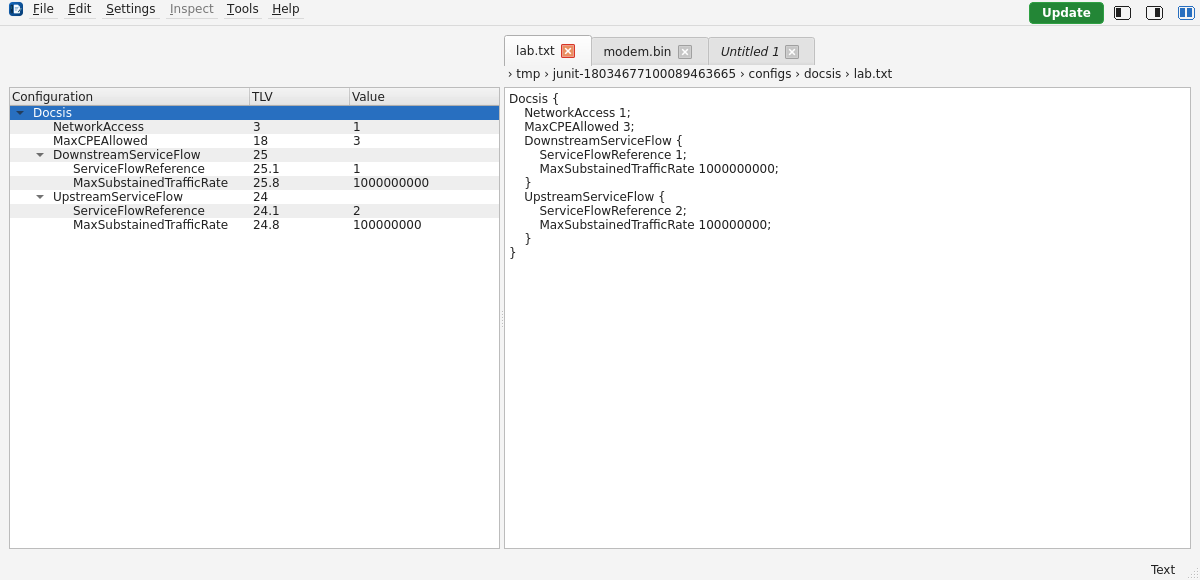
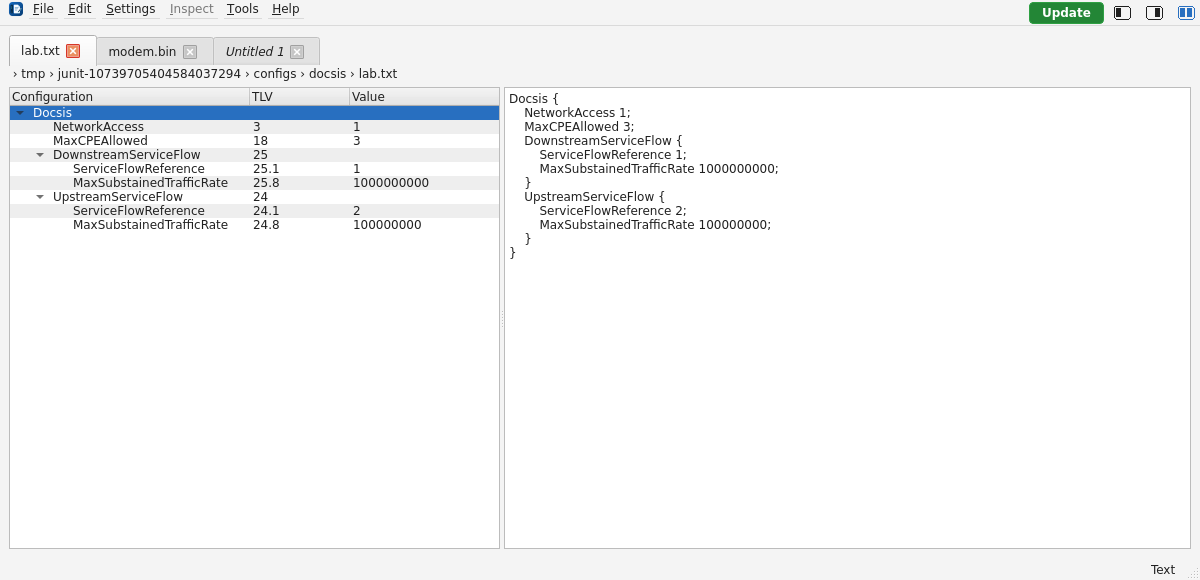
Feature: Add multi-file workspace tabs - Left-align tabs and breadcrumbs above both panels - Keep document edits and save state independent - Sync active tabs with TLV tree and file type - Add tab menu and safe multi-document closing - Update architecture, guides and screenshots - Tests: Pass 151 te

Changed region(s): [[0.0, 0.0621, 0.3392, 0.1552], [0.4317, 0.0621, 0.74, 0.1552]]

diff --git a/src/main/java/io/oscarui/ui/MainWindow.java b/src/main/java/io/oscarui/ui/MainWindow.java
@@ -100,8 +100,6 @@ public final class MainWindow extends QMainWindow {
 
     private final WorkspaceSessions workspace = new WorkspaceSessions();
     private final DocumentTabs documentTabs = new DocumentTabs(this::activateSession, this::closeSession);
-    private final QWidget tabSpacer = new QWidget();
-    private QSplitter workspaceSplitter;
     private boolean closeApproved;
     private Document document;
 
@@ -163,18 +161,8 @@ public final class MainWindow extends QMainWindow {
         status.setWordWrap(true);
         status.setObjectName("operationStatus");
         status.setVisible(false);
-        var tabRow = new QHBoxLayout();
-        tabRow.setContentsMargins(0, 0, 0, 0);
-        tabRow.setSpacing(0);
-        tabRow.addWidget(tabSpacer);
-        tabRow.addWidget(documentTabs, 1);
-        layout.addLayout(tabRow);
+        layout.addWidget(documentTabs);
         var splitter = new QSplitter(Qt.Orientation.Horizontal);
-        workspaceSplitter = splitter;
-        splitter.installEventFilter(this);
-        configurationTreePane.installEventFilter(this);
-        configurationTextPane.installEventFilter(this);
-        splitter.splitterMoved.connect((position, index) -> alignTabs());
         splitter.addWidget(configurationTreePane);
         splitter.addWidget(configurationTextPane);
         splitter.setStretchFactor(0, 1);
@@ -369,10 +357,6 @@ public final class MainWindow extends QMainWindow {
      * @return true when the Inspect tooltip was handled, otherwise Qt's result
      */
     @Override public boolean eventFilter(QObject watched, QEvent event) {
-        if ((watched == workspaceSplitter || watched == configurationTreePane || watched == configurationTextPane)
-                && (event.type() == QEvent.Type.Resize || event.type() == QEvent.Type.Show || event.type() == QEvent.Type.Hide)) {
-            QTimer.singleShot(0, this::alignTabs);
-        }
         if (watched == menuBar() && event.type() == QEvent.Type.ToolTip
                 && event instanceof QHelpEvent helpEvent && inspectMenu != null
                 && menuBar().actionAt(helpEvent.pos()) == inspectMenu.menuAction()) {
@@ -712,14 +696,6 @@ public final class MainWindow extends QMainWindow {
             }
             dialog.dispose();
         });
-    }
-
-    private void alignTabs() {
-        if (workspaceSplitter != null && !workspaceSplitter.isDisposed()) {
-            int width = !configurationTreePane.isHidden() && !configurationTextPane.isHidden()
-                    ? workspaceSplitter.sizes().getFirst() + workspaceSplitter.handleWidth() : 0;
-            tabSpacer.setFixedWidth(width);
-        }
     }
 
     private boolean activateExisting(Path path) {

diff --git a/docs/development/todo/multi-file-workspace.md b/docs/development/todo/multi-file-workspace.md
@@ -6,7 +6,7 @@ Status: implemented locally; native Windows/macOS confirmation remains with CI.
 
 - New and Open create/select a tab instead of replacing the current document.
   Opening another file does not prompt to discard the current file.
-- Put tabs immediately above the text panel. Keep one shared TLV tree on the left.
+- Put left-aligned tabs immediately above both workspace panels. Keep one shared TLV tree on the left.
 - Right-click anywhere on the tab row (a tab or unused space) opens a context
   menu with **Open File...** and **New File...**. Reuse the File menu actions and
   their existing dialogs; each successful operation creates/selects a tab without
@@ -19,7 +19,7 @@ Status: implemented locally; native Windows/macOS confirmation remains with CI.
   Italic means unsaved: a new draft or modifications since the last successful
   save. Use normal text after successful save; do not italicize merely because
   a tab is inactive. Add an accessible unsaved indication in the tooltip.
-- Match the supplied editor example with two rows above the text preview:
+- Match the supplied editor example with two rows spanning the workspace above both panels:
   filename tabs with close buttons, then a breadcrumb row for the active file.
   Show directory segments followed by the filename, for example
   `configs > docsis > customer.cfg`. There is no project root in this app, so

diff --git a/docs/development/architecture/ui-architecture.md b/docs/development/architecture/ui-architecture.md
@@ -796,8 +796,8 @@ aliases activate their existing tab; duplicate basenames get distinguishing pare
 paths. Save As refuses another open tab's destination. A typed Text/Binary status
 is derived from the session's source metadata and changes only after a successful
 format-changing save. It is never inferred from the displayed text or extension.
-The tab strip aligns with the text panel in split mode and remains available in
-tree-only mode. Empty workspaces clear document state and disable file actions.
+The tabs and breadcrumbs start at the left workspace edge above both panels,
+span the workspace width, and remain available in tree-only mode. Empty workspaces clear document state and disable file actions.
 
 OSCAR work remains serialized. While any operation runs, document mutations and
 closing are disabled, but tab selection remains available. Worker results capture

diff --git a/docs/ui/workspace.md b/docs/ui/workspace.md
@@ -22,7 +22,9 @@ layout uses the theme's highlight color.
 
 ## File tabs and directory breadcrumbs
 
-Each New/Open adds a tab above the text panel. Select a tab to switch the shared
+Tabs and breadcrumbs start at the left workspace edge above both panels.
+
+Each New/Open adds a tab above the workspace panels. Select a tab to switch the shared
 TLV tree, text preview, inspection actions, and bottom-right **Text/Binary** label.
 An *italic* tab name means a new or modified document has not been saved; a
 successful save restores normal lettering. Each file keeps its own tree selection,
